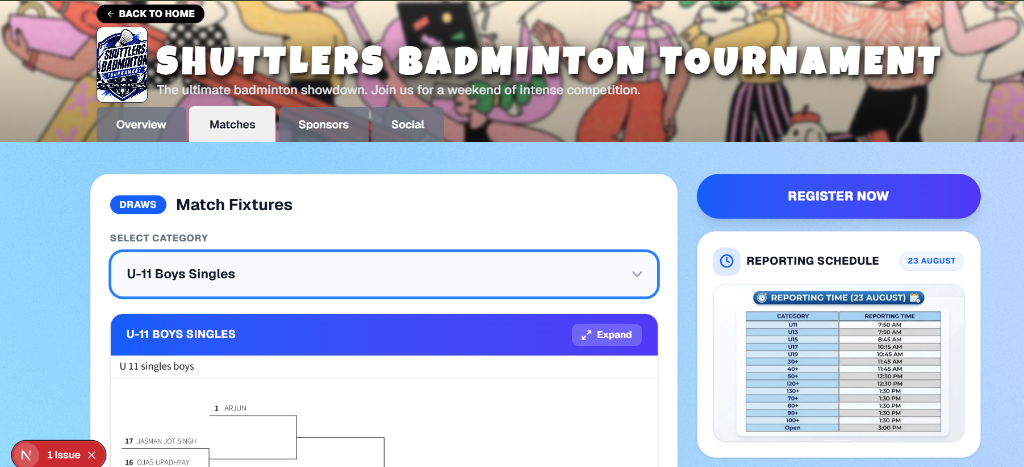
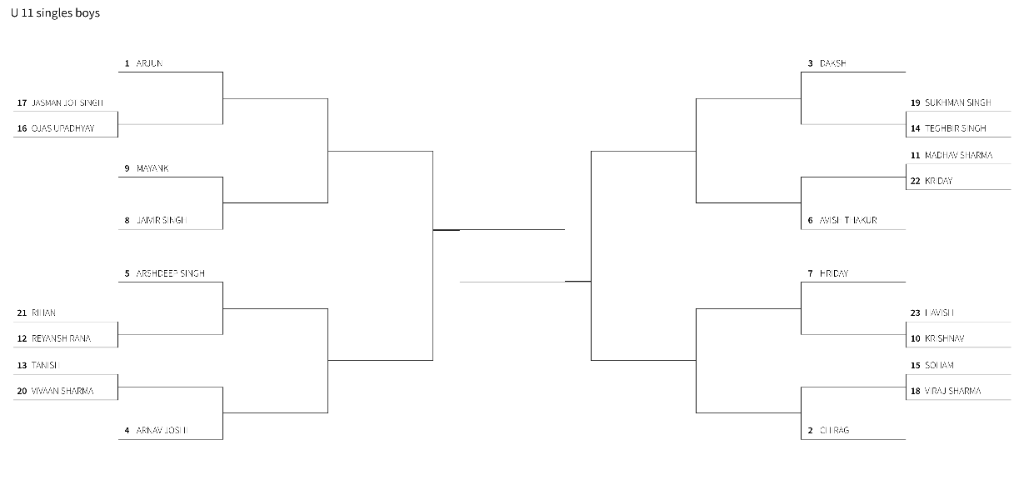
Update U11 boys singles fixture image and prevent caching

diff --git a/src/app/tournament/[id]/page.tsx b/src/app/tournament/[id]/page.tsx
@@ -99,6 +99,7 @@ function BannerCarousel() {
 export default function TournamentPage({ params }: { params: Promise<{ id: string }> | { id: string } }) {
   const [activeTab, setActiveTab] = useState('Overview');
   const [selectedImage, setSelectedImage] = useState<number | null>(null);
+  const cacheBuster = React.useRef(Date.now()).current;
   
   // Registration Modal State
   const router = useRouter();
@@ -506,7 +507,7 @@ export default function TournamentPage({ params }: { params: Promise<{ id: strin
                         onClick={() => setFixtureLightboxOpen(true)}
                       >
                         <img
-                          src={`/fixtures/${selectedFixtureCategory}.png`}
+                          src={`/fixtures/${selectedFixtureCategory}.png?v=${cacheBuster}`}
                           alt={`Fixture - ${fixtureCategories.find(c => c.slug === selectedFixtureCategory)?.label}`}
                           className="w-full h-auto object-contain"
                           onError={(e) => {
@@ -574,7 +575,7 @@ export default function TournamentPage({ params }: { params: Promise<{ id: strin
                   </button>
                 </div>
                 <img
-                  src={`/fixtures/${selectedFixtureCategory}.png`}
+                  src={`/fixtures/${selectedFixtureCategory}.png?v=${cacheBuster}`}
                   alt={`Fixture - ${fixtureCategories.find(c => c.slug === selectedFixtureCategory)?.label}`}
                   className="w-auto h-auto max-w-full max-h-[85vh] object-contain rounded-xl shadow-2xl border-4 border-white/10"
                   onClick={(e) => e.stopPropagation()}
